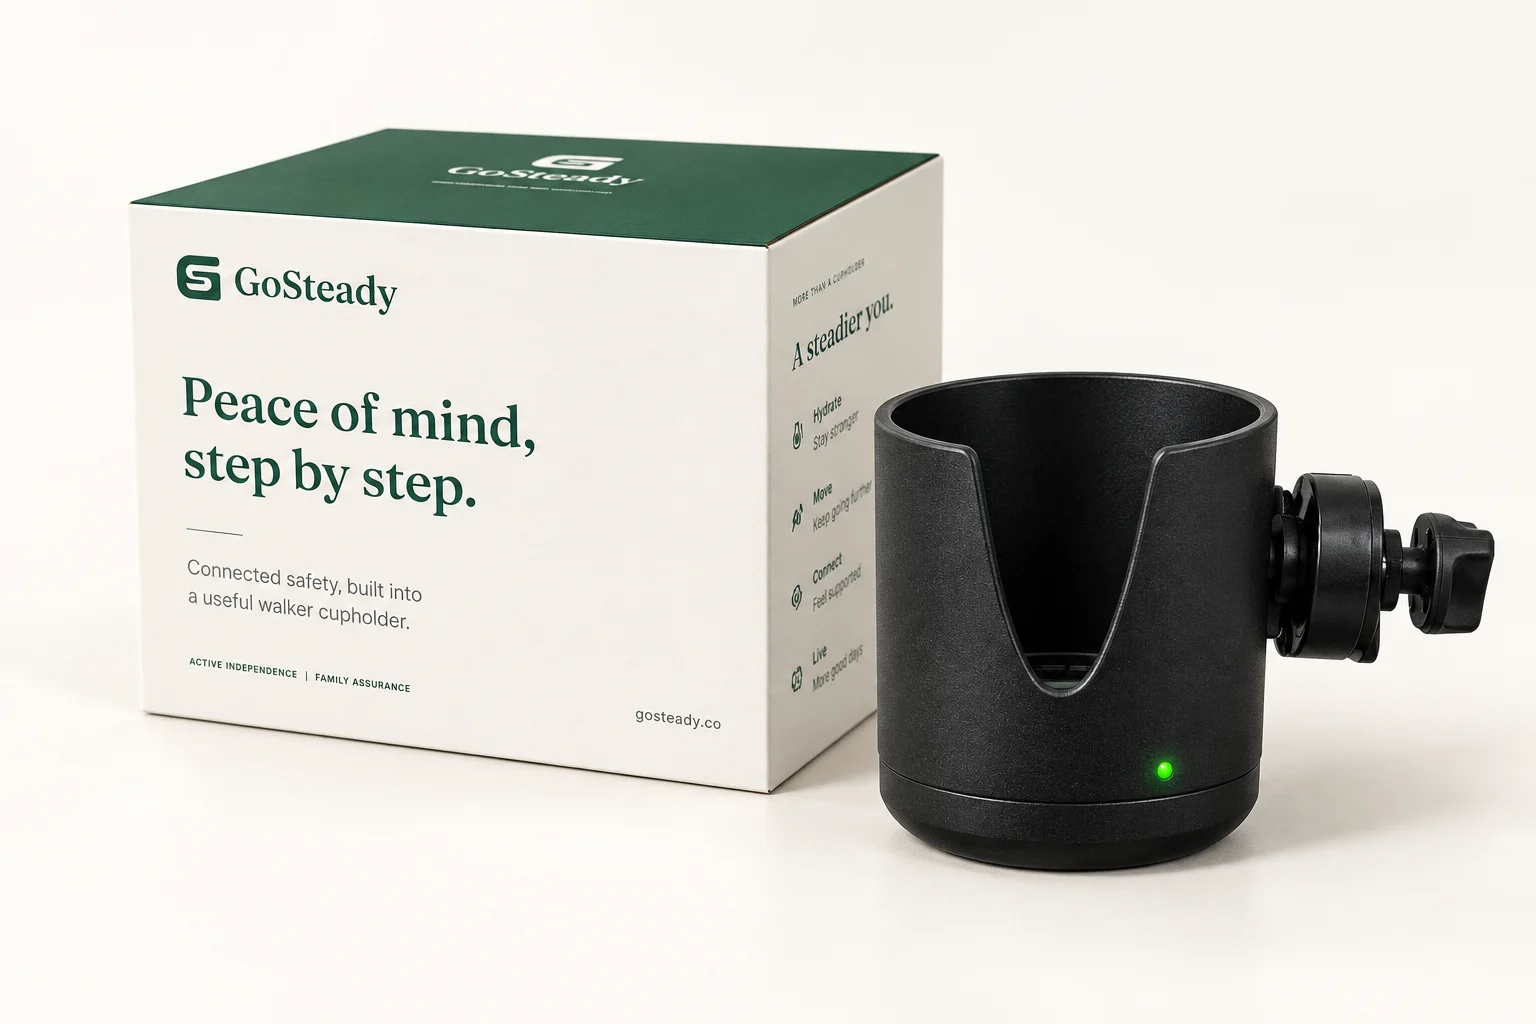
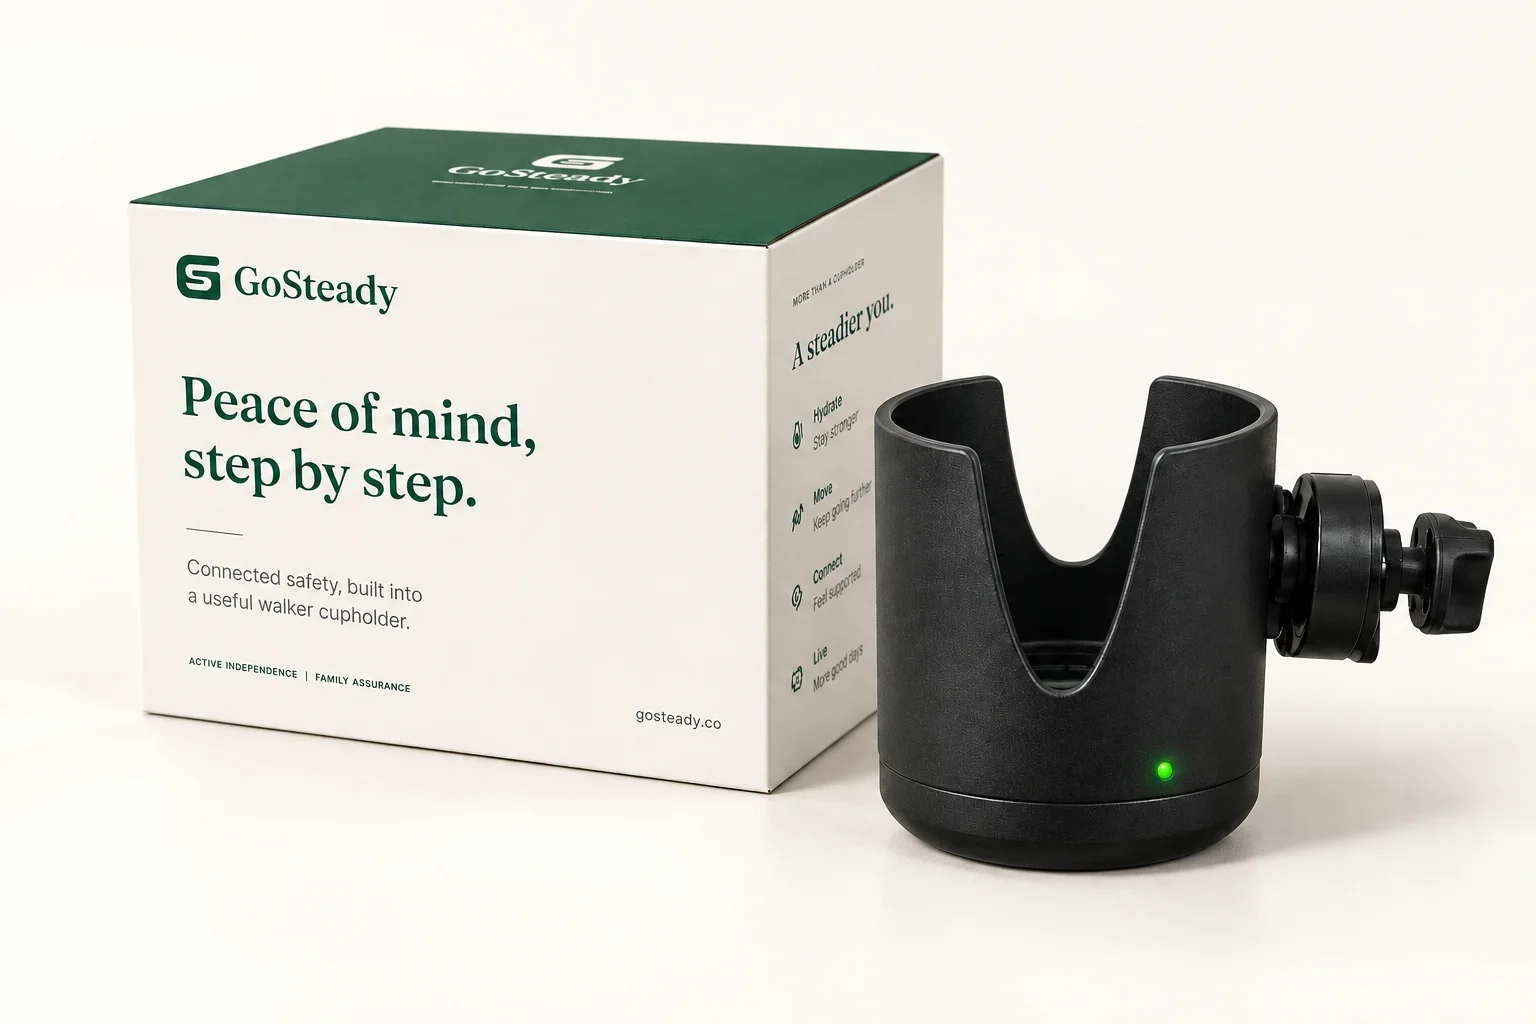
Correct product image to show opposing cupholder cutouts

diff --git a/checkout-v2.html b/checkout-v2.html
@@ -440,7 +440,7 @@
       <section id="plan-step" class="plan-step" aria-labelledby="plan-heading">
         <p class="step-eyebrow">GoSteady Family Connect</p>
         <div class="included-card">
-          <img class="packaging-image" src="/Assets/gosteady-device-and-box.webp" width="1536" height="1024" alt="The GoSteady smart cupholder and its mounting clamp beside the GoSteady box" fetchpriority="high">
+          <img class="packaging-image" src="/Assets/gosteady-device-and-box.webp?v=2" width="1536" height="1024" alt="The GoSteady smart cupholder and its mounting clamp beside the GoSteady box" fetchpriority="high">
           <div class="included-copy">
             <h1 class="step-eyebrow" id="plan-heading" tabindex="-1">What’s included</h1>
             <ul class="included-list">

diff --git a/checkout.html b/checkout.html
@@ -406,7 +406,7 @@
       <section id="plan-step" class="plan-step" aria-labelledby="plan-heading">
         <p class="step-eyebrow">GoSteady Family Connect</p>
         <div class="included-card">
-          <img class="packaging-image" src="/Assets/gosteady-device-and-box.webp" width="1536" height="1024" alt="The GoSteady smart cupholder and its mounting clamp beside the GoSteady box" fetchpriority="high">
+          <img class="packaging-image" src="/Assets/gosteady-device-and-box.webp?v=2" width="1536" height="1024" alt="The GoSteady smart cupholder and its mounting clamp beside the GoSteady box" fetchpriority="high">
           <div class="included-copy">
             <h1 class="step-eyebrow" id="plan-heading" tabindex="-1">What’s included</h1>
             <ul class="included-list">

diff --git a/docs/checkout-product-image.md b/docs/checkout-product-image.md
@@ -6,6 +6,12 @@ Final asset: `Assets/gosteady-device-and-box.webp` (1536 × 1024, WebP quality 8
 
 References: `Assets/gosteady-packaging.png` for branded packaging and `cup-detail.jpg` for the actual cupholder and clamp. The drinking tumbler and walker are excluded because they are not included in the purchase.
 
-## Final prompt
+## Initial composition prompt
 
 Create a premium photorealistic e-commerce product still life for the GoSteady checkout 'What's included' card. Reference image 1 is the existing GoSteady packaging: preserve its cream front, deep forest-green top, actual GoSteady logo, and the printed 'Peace of mind, step by step.' wording. Reference image 2 is the ACTUAL current GoSteady device; preserve the matte black cylindrical cupholder, deep rounded U-shaped front opening, gently rounded bottom, horizontal seam near the base, single tiny green status LED near bottom right, and black side mounting clamp with thumb screw. Remove the mint drinking tumbler and walker tubing so the empty cupholder device and its attached mounting clamp are clearly visible: the tumbler and walker are NOT included. Compose the original branded box behind and to the left, the faithful empty black cupholder in the right foreground next to the box. Device height roughly 65% of box height. On a seamless warm ivory #F8F6F0 studio surface, soft daylight from upper left, delicate realistic contact shadows, quiet refined healthcare consumer brand art direction, eye-level three-quarter angle slightly looking down to reveal empty holder. Product and box occupy 85% of the frame width, centered with modest breathing room; landscape 3:2 composition. Sharp actual product details, natural material finish. No new hardware features, no invented accessories, no phone, no loose parts, no tumbler, no walker, no people, no caption text or banners. Product accuracy over stylization. This is a composition/edit using the real packaging and hardware references, not a device redesign.
+
+## Product-fidelity correction — final prompt
+
+The initial image incorrectly filled in the back cutout. Corrected using the built-in image-generation tool with the first composition as the edit target, `ads/getting-started-v1/thumbnail-options/option-3-installed-product.jpg` as the empty-device structural reference, and `Assets/closeup.png` as the finish/clamp reference. The final asset replaces the initial image; both checkout pages use `?v=2` to refresh cached copies.
+
+Edit reference image 1, the GoSteady product and packaging still life, to correct the cupholder geometry. IMPORTANT: The real cupholder has TWO deep U-shaped cutouts, on opposing sides, 180 degrees apart. The current still life incorrectly fills in the far/back side as an unbroken high circular wall. Reference image 2 is actual setup footage of the EMPTY real cupholder and is the structural reference: note the opposing opening in the far wall. Reference image 3 shows the actual black finish, front cutout, mounting clamp, thumb screw, base seam, and LED, with a tumbler inside. Do not add the tumbler. Keep the existing front U-shaped cutout. Add the matching opposing deep U-shaped cutout in the BACK wall, centered directly opposite the front slot; it must be visibly open through the far rim, revealing the box/ivory background behind the device. The resulting cupholder wall consists of two curved upright wings on left and right joined by a solid lower cylindrical base, not a solid cylinder with only a front notch. Preserve curved cylindrical overall geometry, full circular lower floor and base, and the side clamp position. Both cutouts should have the same deep rounded U profile and wall thickness; account correctly for perspective. This is an exact product-fidelity correction, not a redesign. Preserve all other parts of image 1: packaging, logos and legible wording, composition, warm studio background, lighting, shadows, matte black surface, existing small green LED, lower seam, side mounting clamp/thumb screw, and device scale. Do not add hardware, feet, handles, new LEDs, extra cuts, new text or decorations. Output the same landscape 3:2 still life with only the corrected cupholder geometry.
